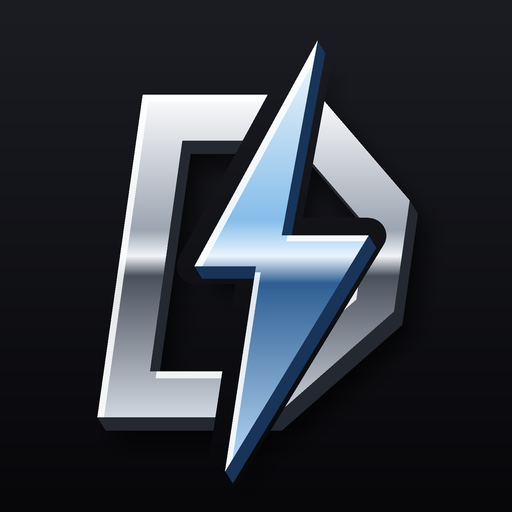
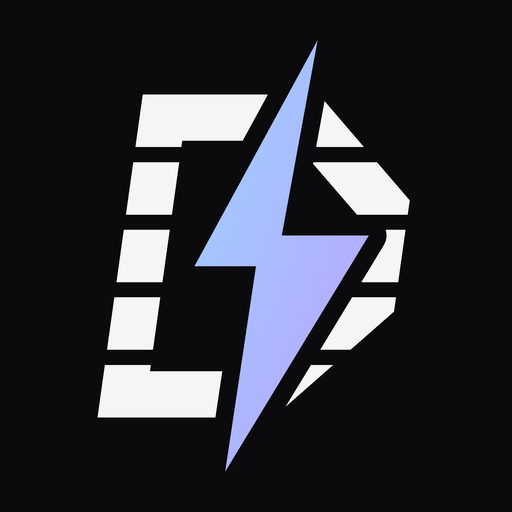
Novo D fatiado e chapado, sem efeito de metal
Claude-Session: https://claude.ai/code/session_01JRCEB9fLo3ZnfFUDQdqtVv

Changed region(s): [[0.1875, 0.0625, 0.8125, 0.9375]]

diff --git a/app/src/main/assets/index.html b/app/src/main/assets/index.html
@@ -104,15 +104,19 @@ input[type=file]{position:absolute;width:1px;height:1px;opacity:0;pointer-events
     <linearGradient id="chB" gradientUnits="userSpaceOnUse" x1="0" y1="6" x2="0" y2="94">
       <stop offset="0" stop-color="#ffffff"/><stop offset=".42" stop-color="#86bdea"/><stop offset=".5" stop-color="#eaf5ff"/><stop offset=".56" stop-color="#2f5f93"/><stop offset="1" stop-color="#c4e3ff"/>
     </linearGradient>
+    <clipPath id="dclip"><path clip-rule="evenodd" d="M23.5 18.5H57.86L78.5 39.14V60.86L57.86 81.5H23.5ZM32.5 27.5H54.14L69.5 42.86V57.14L54.14 72.5H32.5Z"/></clipPath>
+    <linearGradient id="chS" x1="0" y1="0" x2="0" y2="1">
+      <stop offset="0" stop-color="#ffffff"/><stop offset=".45" stop-color="#b3bbc8"/><stop offset=".5" stop-color="#f4f7fb"/><stop offset=".56" stop-color="#555d69"/><stop offset="1" stop-color="#e0e6ee"/>
+    </linearGradient>
+    <linearGradient id="bolt" x1="0" y1="0" x2="1" y2="1"><stop offset="0" stop-color="#9dd2ff"/><stop offset="1" stop-color="#bba2ff"/></linearGradient>
     <symbol id="logo" viewBox="0 0 100 100">
       <g transform="translate(7 0) skewX(-8)">
-        <path d="M23.5 18.5H57.86L78.5 39.14V60.86L57.86 81.5H23.5ZM32.5 27.5H54.14L69.5 42.86V57.14L54.14 72.5H32.5Z" fill="#262a31" fill-rule="evenodd" transform="translate(2.2 3.4)"/>
-        <path d="M23.5 18.5H57.86L78.5 39.14V60.86L57.86 81.5H23.5ZM32.5 27.5H54.14L69.5 42.86V57.14L54.14 72.5H32.5Z" fill="url(#chD)" fill-rule="evenodd"/>
-        <path d="M23.5 19H57.7L78 39.3" fill="none" stroke="#fff" stroke-opacity=".85" stroke-width="1.2" stroke-linejoin="miter"/>
+        <g clip-path="url(#dclip)" fill="#f5f5f7">
+          <rect x="15" y="18.5" width="70" height="10.2"/><rect x="15" y="31.7" width="70" height="10.2"/><rect x="15" y="44.9" width="70" height="10.2"/><rect x="15" y="58.1" width="70" height="10.2"/><rect x="15" y="71.3" width="70" height="10.2"/>
+        </g>
       </g>
       <path d="M62 8 38 52h12l-6 40 28-46H55z" fill="#000" stroke="#000" stroke-width="7" stroke-linejoin="miter"/>
-      <path d="M62 8 38 52h12l-6 40 28-46H55z" fill="#1b3a60" transform="translate(2 3)"/>
-      <path d="M62 8 38 52h12l-6 40 28-46H55z" fill="url(#chB)" stroke="#fff" stroke-opacity=".7" stroke-width=".8" stroke-linejoin="miter"/>
+      <path d="M62 8 38 52h12l-6 40 28-46H55z" fill="url(#bolt)"/>
     </symbol>
   </defs>
 </svg>

diff --git a/index.html b/index.html
@@ -111,15 +111,19 @@ input[type=file]{position:absolute;width:1px;height:1px;opacity:0;pointer-events
     <linearGradient id="chB" gradientUnits="userSpaceOnUse" x1="0" y1="6" x2="0" y2="94">
       <stop offset="0" stop-color="#ffffff"/><stop offset=".42" stop-color="#86bdea"/><stop offset=".5" stop-color="#eaf5ff"/><stop offset=".56" stop-color="#2f5f93"/><stop offset="1" stop-color="#c4e3ff"/>
     </linearGradient>
+    <clipPath id="dclip"><path clip-rule="evenodd" d="M23.5 18.5H57.86L78.5 39.14V60.86L57.86 81.5H23.5ZM32.5 27.5H54.14L69.5 42.86V57.14L54.14 72.5H32.5Z"/></clipPath>
+    <linearGradient id="chS" x1="0" y1="0" x2="0" y2="1">
+      <stop offset="0" stop-color="#ffffff"/><stop offset=".45" stop-color="#b3bbc8"/><stop offset=".5" stop-color="#f4f7fb"/><stop offset=".56" stop-color="#555d69"/><stop offset="1" stop-color="#e0e6ee"/>
+    </linearGradient>
+    <linearGradient id="bolt" x1="0" y1="0" x2="1" y2="1"><stop offset="0" stop-color="#9dd2ff"/><stop offset="1" stop-color="#bba2ff"/></linearGradient>
     <symbol id="logo" viewBox="0 0 100 100">
       <g transform="translate(7 0) skewX(-8)">
-        <path d="M23.5 18.5H57.86L78.5 39.14V60.86L57.86 81.5H23.5ZM32.5 27.5H54.14L69.5 42.86V57.14L54.14 72.5H32.5Z" fill="#262a31" fill-rule="evenodd" transform="translate(2.2 3.4)"/>
-        <path d="M23.5 18.5H57.86L78.5 39.14V60.86L57.86 81.5H23.5ZM32.5 27.5H54.14L69.5 42.86V57.14L54.14 72.5H32.5Z" fill="url(#chD)" fill-rule="evenodd"/>
-        <path d="M23.5 19H57.7L78 39.3" fill="none" stroke="#fff" stroke-opacity=".85" stroke-width="1.2" stroke-linejoin="miter"/>
+        <g clip-path="url(#dclip)" fill="#f5f5f7">
+          <rect x="15" y="18.5" width="70" height="10.2"/><rect x="15" y="31.7" width="70" height="10.2"/><rect x="15" y="44.9" width="70" height="10.2"/><rect x="15" y="58.1" width="70" height="10.2"/><rect x="15" y="71.3" width="70" height="10.2"/>
+        </g>
       </g>
       <path d="M62 8 38 52h12l-6 40 28-46H55z" fill="#000" stroke="#000" stroke-width="7" stroke-linejoin="miter"/>
-      <path d="M62 8 38 52h12l-6 40 28-46H55z" fill="#1b3a60" transform="translate(2 3)"/>
-      <path d="M62 8 38 52h12l-6 40 28-46H55z" fill="url(#chB)" stroke="#fff" stroke-opacity=".7" stroke-width=".8" stroke-linejoin="miter"/>
+      <path d="M62 8 38 52h12l-6 40 28-46H55z" fill="url(#bolt)"/>
     </symbol>
   </defs>
 </svg>

diff --git a/sw.js b/sw.js
@@ -1,4 +1,4 @@
-const C='dreams-v8';
+const C='dreams-v9';
 const FILES=['./','./index.html','./manifest.webmanifest','./icon-192.png','./icon-512.png'];
 self.addEventListener('install',e=>{e.waitUntil(caches.open(C).then(c=>c.addAll(FILES)).then(()=>self.skipWaiting()))});
 self.addEventListener('activate',e=>{e.waitUntil(caches.keys().then(k=>Promise.all(k.filter(x=>x!==C).map(x=>caches.delete(x)))).then(()=>self.clients.claim()))});
